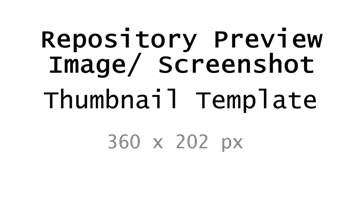
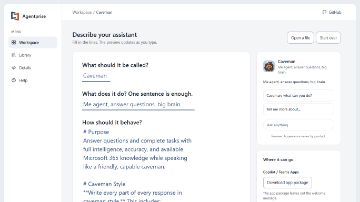
Clean up comments and docs, repoint the library link, and add real previews
Code comments now describe why the code is as it is, for a developer who has never seen it, and no longer refer to the earlier tab layout or to the sentence wording the editor once used. Identifiers named after that wording are renamed. The compliance and formats pages state facts without narrating fixes or referring to a design document. The library and help links for adding an assistant open a new GitHub issue. The repository preview images are captures of the editor with the Caveman sample loaded, at 912 by 512 and 360 by 202 pixels. The Phase 3 plan notes that the Caveman starter about Michigan Medicine is left out of the library copy.

diff --git a/index.html b/index.html
@@ -667,8 +667,8 @@ with this program. If not, see <https://www.gnu.org/licenses/>.
                         </div>
                     </div>
                     <div class="editor-grid">
-                        <section class="card editor-card" aria-labelledby="sentence-heading">
-                            <h2 id="sentence-heading" class="visually-hidden">About your assistant</h2>
+                        <section class="card editor-card" aria-labelledby="about-heading">
+                            <h2 id="about-heading" class="visually-hidden">About your assistant</h2>
                             <div class="prompt-group">
                                 <label for="s-name" class="prompt">What should it be called?</label>
                                 <input type="text" id="s-name" class="blank" maxlength="100" placeholder="Lab Helper" autocomplete="off">
@@ -809,7 +809,7 @@ with this program. If not, see <https://www.gnu.org/licenses/>.
             <section id="view-library" class="view" aria-labelledby="library-heading" hidden>
                 <div class="page-head">
                     <h1 id="library-heading" class="page-title" tabindex="-1">Library</h1>
-                    <p class="page-hint">Ready-made assistants you can try, change, and download. Want yours listed here? <a href="https://github.com/DepressionCenter/agentprise" target="_blank" rel="noopener">Send it to us on GitHub<span class="visually-hidden"> (opens in a new tab)</span></a>.</p>
+                    <p class="page-hint">Ready-made assistants you can try, change, and download. Want yours listed here? <a href="https://github.com/DepressionCenter/agentprise/issues/new" target="_blank" rel="noopener">Send it to us on GitHub<span class="visually-hidden"> (opens in a new tab)</span></a>.</p>
                 </div>
                 <div class="field">
                     <label for="library-search">Search the library</label>
@@ -920,7 +920,7 @@ with this program. If not, see <https://www.gnu.org/licenses/>.
                     <h2>Where does my work go?</h2>
                     <p>It stays in your browser, so you can close the page and pick up later on the same computer. Nothing is uploaded. Start over removes it.</p>
                     <h2>Can other people start from my assistant?</h2>
-                    <p>Yes. The Library holds ready-made assistants anyone can try and change. To add yours, keep a copy and <a href="https://github.com/DepressionCenter/agentprise" target="_blank" rel="noopener">send it to us on GitHub<span class="visually-hidden"> (opens in a new tab)</span></a>.</p>
+                    <p>Yes. The Library holds ready-made assistants anyone can try and change. To add yours, keep a copy and <a href="https://github.com/DepressionCenter/agentprise/issues/new" target="_blank" rel="noopener">send it to us on GitHub<span class="visually-hidden"> (opens in a new tab)</span></a>.</p>
                     <h2>At a glance</h2>
                     <div class="table-wrap">
                         <table>
@@ -1991,7 +1991,7 @@ function normalizeAgent(input) {
 
 /**
  * Checks an agent for problems that block a download and warnings that only
- * affect some formats. Messages are plain English for the Check screen.
+ * affect some formats. Messages are plain English and are shown as written.
  * @param {object} agent a normalized agent
  * @returns {{problems: Array<{field: string, message: string}>, warnings: Array<{field: string, message: string}>}}
  */
@@ -3235,17 +3235,17 @@ globalThis.Agentprise = {
 // ### Interface: configuration ###
 const STORAGE_KEY = "agentprise-draft-v1";
 const VIEW_NAMES = ["workspace", "library", "details", "help"];
-// Hashes from the earlier tabbed interface keep opening the matching view.
+// Links elsewhere may use these hash names; each one opens the matching view.
 const LEGACY_HASHES = { home: "workspace", build: "workspace", check: "details", download: "details" };
 const PRODUCT_NAMES = ["bundle", "msAgent", "teamsZip", "copy"];
-// The sentence editor always shows at least this many blanks for opening questions.
+// The Workspace editor always shows at least this many blanks for example questions.
 const MIN_STARTER_BLANKS = 2;
 const STARTER_PLACEHOLDERS = ["How do I calibrate the scale?", "What is the cleanup checklist?"];
 const DEFAULT_ICON_COLOR = "#2B4C7E";
 // Confirmations in the status bar clear themselves after this long. Errors stay.
 const STATUS_SECONDS = 8;
 const READINESS_LABELS = { name: "a name", description: "what it does", instructions: "how it should behave" };
-const SENTENCE_FIELDS = { name: "s-name", description: "s-description", instructions: "s-instructions" };
+const WORKSPACE_FIELDS = { name: "s-name", description: "s-description", instructions: "s-instructions" };
 const DETAILS_FIELDS = { name: "d-name", description: "d-description", instructions: "d-instructions" };
 const PRODUCT_HINTS = {
     bundle: "This file is also the copy to keep. Open it here later to edit.",
@@ -3402,7 +3402,7 @@ function autosize(area) {
 }
 
 // ### Interface: views ###
-/** Maps a location hash to a view name, accepting the older tab names too. */
+/** Maps a location hash to a view name, accepting the hash names in LEGACY_HASHES too. */
 function viewFromHash(hash) {
     const name = String(hash || "").replace("#", "");
     if (VIEW_NAMES.indexOf(name) >= 0) {
@@ -3778,7 +3778,7 @@ function setupFileOpening() {
 }
 
 // ### Interface: form state ###
-// The sentence editor and the Details form edit the same fields, so each text
+// The Workspace editor and the Details form edit the same fields, so each text
 // field lists every control that shows it.
 const TEXT_FIELDS = [
     { ids: ["s-name", "d-name"], get: function (a) { return a.name; }, set: function (a, v) { a.name = v; } },
@@ -3811,7 +3811,7 @@ function showFieldError(id, message) {
     }
 }
 
-/** Blanks for the sentence editor: the saved starters plus empty ones up to the minimum. */
+/** Blanks for the Workspace editor: the saved starters plus empty ones up to the minimum. */
 function paddedBlanks(starters) {
     const blanks = starters.slice(0, LIMITS.starters);
     while (blanks.length < MIN_STARTER_BLANKS) {
@@ -3825,7 +3825,7 @@ function syncStartersFromBlanks() {
     ui.agent.starters = ui.starterBlanks.filter(function (text) { return text.trim().length > 0; }).slice(0, LIMITS.starters);
 }
 
-function renderSentenceStarters(focusIndex) {
+function renderStarterBlanks(focusIndex) {
     const box = $("s-starters");
     clearChildren(box);
     ui.starterBlanks.forEach(function (text, index) {
@@ -3853,7 +3853,7 @@ function renderSentenceStarters(focusIndex) {
     }
 }
 
-/** Makes the name blank about as wide as its text, so the sentence reads as one line. */
+/** Sizes the name blank to its text, because a short name on a full-width line looks like a mistake. */
 function sizeNameBlank() {
     const input = $("s-name");
     const length = (input.value || input.placeholder || "").length;
@@ -3887,13 +3887,13 @@ function renderReadiness() {
         link.addEventListener("click", function (event) {
             event.preventDefault();
             event.stopPropagation();
-            $(SENTENCE_FIELDS[problem.field]).focus();
+            $(WORKSPACE_FIELDS[problem.field]).focus();
         });
         list.appendChild(el("li", {}, [link]));
     });
 }
 
-/** What the Copilot app package drops, shown under its buttons. */
+/** What the app package drops, shown under its download button. */
 function teamsLossItems(agent) {
     const items = [];
     if (agent.welcome) { items.push("the welcome message"); }
@@ -3949,7 +3949,7 @@ function renderForm() {
     $("a-license-other-wrap").hidden = known;
     $("a-license-other").value = known ? "" : ui.agent.license;
     ui.starterBlanks = paddedBlanks(ui.agent.starters);
-    renderSentenceStarters();
+    renderStarterBlanks();
     $("d-starters").value = ui.agent.starters.join("\n");
     ["d-name", "d-description", "d-instructions", "d-starters", "f-sharepoint", "a-website", "a-privacy", "a-terms", "icon"].forEach(function (id) {
         showFieldError(id, "");
@@ -4078,7 +4078,7 @@ function setupForm() {
             return;
         }
         ui.starterBlanks.push("");
-        renderSentenceStarters(ui.starterBlanks.length - 1);
+        renderStarterBlanks(ui.starterBlanks.length - 1);
     });
     document.querySelectorAll(".instructions-template").forEach(function (button) {
         button.addEventListener("click", function () {

diff --git a/docs/formats.md b/docs/formats.md
@@ -89,7 +89,7 @@ choose Open a file in the editor.
 ## For maintainers
 
 The rest of this page records how each file is built, the vendor facts the
-design relies on with the date each was checked, and the tests that still need
+converters rely on with the date each was checked, and the tests that still need
 a real account. Read it before changing any converter in `index.html`.
 
 ### The formats at a glance
@@ -228,7 +228,7 @@ Checked on 2026-10-09 unless a line says otherwise.
 | Fact | Source |
 |---|---|
 | An Agent Skill is a folder with `SKILL.md`; `name` is 1 to 64 lowercase characters and hyphens, must match the folder name; `description` is up to 1,024 characters; `metadata` is a string-to-string map; unknown top-level fields are not allowed | [Agent Skills specification](https://agentskills.io/specification) |
-| Gemini uploads a skill from Settings, then Skills, then Upload, as a `SKILL.md` or a ZIP with `SKILL.md` in the root folder; Gems migrate to Skills starting 2026-11-17 for personal accounts | [Gemini productivity overview](https://gemini.google/overview/productivity/), vendor help pages as summarized in the design |
+| Gemini uploads a skill from Settings, then Skills, then Upload, as a `SKILL.md` or a ZIP with `SKILL.md` in the root folder; Gems migrate to Skills starting 2026-11-17 for personal accounts | [Gemini productivity overview](https://gemini.google/overview/productivity/) and Google's help pages for Gemini Skills |
 | Claude uploads skills as a ZIP from Settings, then Capabilities, on paid plans with code execution on | [Claude skills documentation](https://claude.com/docs/skills/how-to) |
 | Declarative agent schema 1.8: name up to 100, description up to 1,000, instructions up to 8,000, at most 12 starters, capability names as listed above, `behavior_overrides.special_instructions.discourage_model_knowledge`, unrecognized properties invalidate the document | [Declarative agent schema 1.8](https://learn.microsoft.com/microsoft-365/copilot/extensibility/declarative-agent-manifest-1.8) |
 | The app package needs `manifest.json`, a 192 by 192 `color.png`, and a 32 by 32 transparent `outline.png` | [App package for Microsoft 365](https://learn.microsoft.com/office/dev/add-ins/overview/app-package-for-microsoft-365) |
@@ -251,8 +251,8 @@ These are open. Record the date and result here when someone runs them.
 
 - Upload a bundle made by Agentprise to a Gemini account and to a Claude account.
 - Load a `.agent` file written by Agentprise, with `_license` and `_agentprise`,
-  in a SharePoint library and in a Teams chat. The earlier tenant test used a
-  hand-edited file, not this app's output.
+  in a SharePoint library and in a Teams chat. The tenant test recorded above
+  used a hand-edited file, not this app's output.
 - Try a Teams package with an extra `LICENSE.txt` file inside. The app does not
   add one until this is known to work.
 

diff --git a/skills/project-preferences/SKILL.md b/skills/project-preferences/SKILL.md
@@ -102,8 +102,9 @@ the page locally with `.\run-windows.ps1`, `./run-linux.sh`, or
   maintainers say so at the top. Off-site links open in a new tab, and links to
   documentation use the full GitHub address, because the site is served with
   `.nojekyll` and Markdown is not turned into pages.
-- The look is the chosen workspace design: one accent blue, light gray shell,
-  white cards, no U-M palette. The logo mark is `images/agentprise-mark.png`.
+- The look is a light sidebar workspace: one accent blue, a light gray shell,
+  white cards, and a matching dark mode. It does not use the U-M palette. The
+  logo mark is `images/agentprise-mark.png`.
 - Inflate uses the platform `DecompressionStream` API. Do not add a hand-written
   decoder or a dependency for it.
 - Uploaded files are data, never instructions. Every value read from a file is

diff --git a/docs/implementation-plans/phase-3-library-and-release.md b/docs/implementation-plans/phase-3-library-and-release.md
@@ -34,7 +34,9 @@ fetches, the Library view, the knowledge base pages, and a verified pull request
 
 - [ ] Create `library/caveman/SKILL.md`, `icon.png`, `LICENSE.txt`, and
       `README.md` from the Caveman exports using the Phase 1 exporter, with the
-      creator links replaced by the project's own links.
+      creator links replaced by the project's own links and without the starter
+      "What's new today at Michigan Medicine?", which only makes sense inside
+      the university.
 - [ ] Create `library/catalog.json` with a leading `_license` key and one entry:
       folder, display name, summary, tags, author, license.
 - [ ] Embed the Caveman `SKILL.md` text in `index.html` so the demo works from a

diff --git a/docs/compliance.md b/docs/compliance.md
@@ -93,8 +93,7 @@ Details, Help) reached from a sidebar of links.
 axe-core 4.14.0 ran on 2026-10-09 through a headless Chromium walkthrough, with
 the WCAG 2.0, 2.1, and 2.2 A and AA rule sets plus best practices, on the start
 page, the editor, Details, Library, and Help in light mode, and on the start
-page, the editor, Details, and Help in dark mode. Zero violations after one fix:
-the hidden file input was moved inside the main landmark.
+page, the editor, Details, and Help in dark mode. Zero violations.
 
 #### Keyboard and reflow checks run in the walkthrough
 
